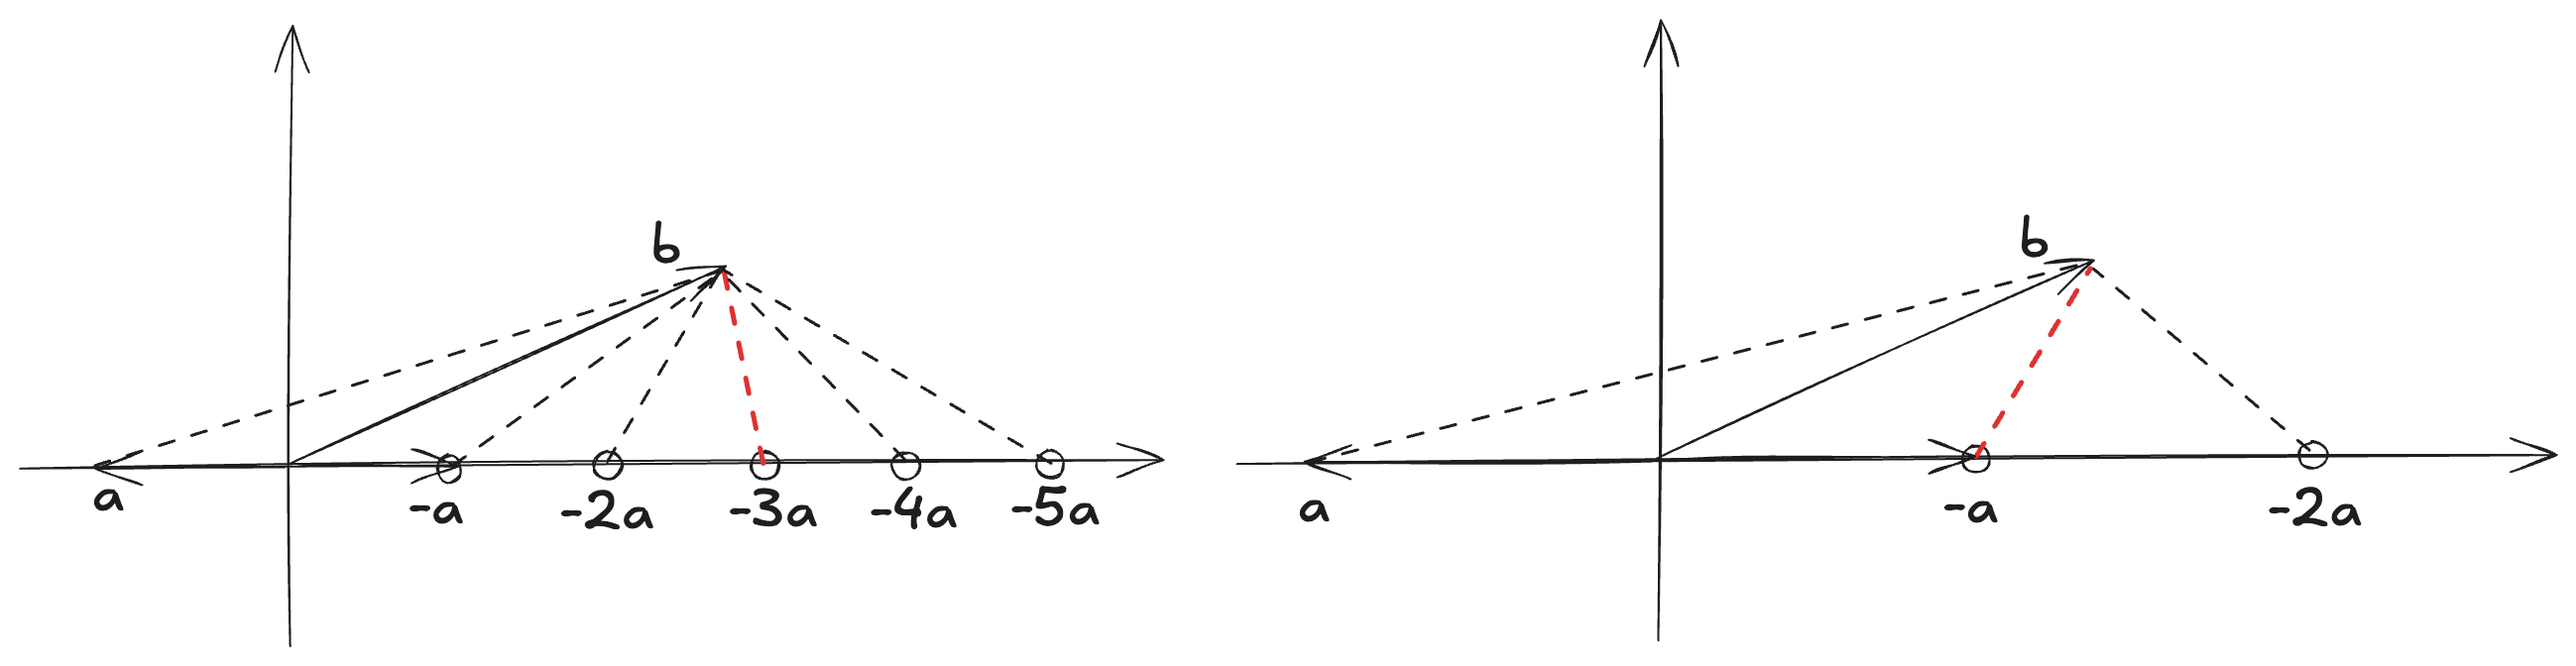
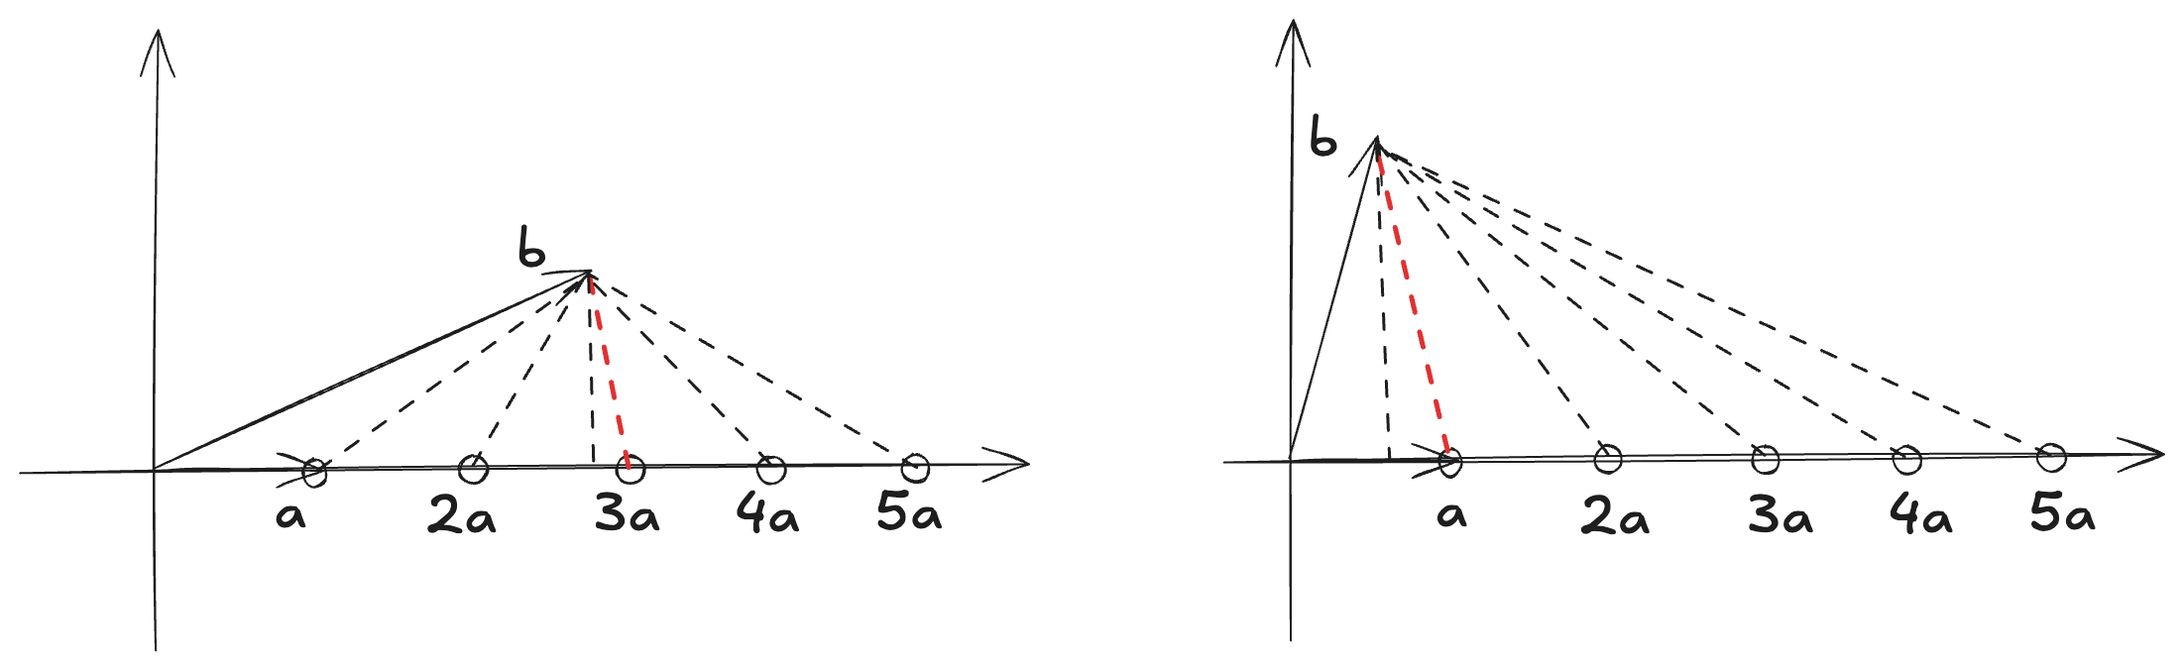
[complexity of lattice problems] detailed explaination of Gauss algorithm

diff --git a/docs/cryptography/complexity-of-lattice-problems/approximation-algorithms.md b/docs/cryptography/complexity-of-lattice-problems/approximation-algorithms.md
@@ -78,13 +78,56 @@ After then we will consider following cases :
     $$
     |\| a \| \le \| b \| \le \| a - b \| \le \| a + b \|
     $$
-    then the basis $[a, b]$ is strictly reduced, return $[a, b]$.
+    then the basis $[a, b]$ is strictly reduced, and they are in the same direction, return $[a, b]$.
 
-2. For the line-4, it is the case of $\| a - b \| \le \| b \|$, there are two subcases to consider:
-   - (2.1) $\| a \| \le \| a - b \|$, then basis $[a, b]$ is a typical well-ordered basis.
-   - (2.2) $\| a - b \| \le \| a \| \le \| b \|$, then there are two subcases to consider : 
-      - (2.2.1) $\| a - b \| \le \| a \| = \| b \|$, this is a very special case, $\|a \| = \| b \|$ and $\| a - b \| \le \| a \|$ ensure that vectors $a - b$ and $a$ are in the same direction, in this case, $\| a \| = \| b \| \le \| 2a - b \|$. Since $\| (a - b) - a \| = \| b \|$, thus the basis $[a - b, a]$ is reduced, return $[a - b, a]$.
-      - (2.2.2) $\| a - b \| \le \| a \| < \| b \|$, we do not know the whether $a - b$ and $a$ are in the same direction or not, but $\| a \| \le \| b \|$ and $\| a - b \| \le \| a \|$ ensures that vectors $b - a$ and $a$ are in the same direction, so $\| b - a \| \le \| (b - a) - a \| \le \| a \|$. Therefore, the basis $[b - a, a]$ is well-ordered basis. 
+2. For the rest of lines, it is the case of $\| a - b \| \lt \| b \|$, there are two subcases to consider:
+
+   - (2.1) for the line-4, $\| a \| \le \| a - b \| \lt \| b \|$, then basis $[a, b]$ is a typical well-ordered basis, and they are in the same direction.
+
+   - (2.2) for line-5 and line-6, $\| a - b \| \le \| a \| \le \| b \|$, then there are two subcases to consider : 
+
+      - (2.2.1) for the line-5, $\| a - b \| \le \| a \| = \| b \|$, this is a very special case, $\|a \| = \| b \|$ and $\| a - b \| \le \| a \|$ ensure that vectors $a - b$ and $a$ are in the same direction, in this case, $\| a \| = \| b \| \le \| 2a - b \|$. Since $\| (a - b) - a \| = \| b \|$, thus the basis $[a - b, a]$ is reduced, and they are in the same direction, return $[a - b, a]$.
+
+      - (2.2.2) from line-6, $\| a - b \| \le \| a \| < \| b \|$, we do not know the whether $a - b$ and $a$ are in the same direction or not, but $\| a \| \le \| b \|$ and $\| a - b \| \le \| a \|$ ensures that vectors $b - a$ and $a$ are in the same direction, so $\| b - a \| \le \| (b - a) - a \| \le \| a \|$. Therefore, the basis $[b - a, a]$ is well-ordered basis. 
+
+The remaining problem is how to find the reduced basis through well-ordered basis in the loop :
+
+1. Since $[a, b]$ is a well-ordered basis, there are other lattice vectors that can be fit between $[\| a \|, \| b \|]$, what we need to do is finding the smallest one. This is achieved by find the integer $\mu$ such that $\| b - \mu a \|$ is minimal, then replace $b$ with $b - \mu a$.
+
+2. Now we can check that if the updated basis $[a, b]$ is reduced, not that before checking we need to make sure that $\| a \| \le \| b \|$, if not, swap $a$ and $b$.
+
+3. repeat the above steps until the basis $[a, b]$ is reduced.
+
+</details>
+<br />
+
+*Lemma 2.3 - Let $a, b$ be two vectors such that $\| b - a \| < \| b \|$. Then, one can efficiently find an integer $\mu$ such that $\| b - \mu a \|$ is minimal. Moreover, $\mu$ satisfies $1 \le \mu \le \lceil 2\frac{\| b \|}{\| a \|} \rceil$.*
+
+![Gauss Algorithm 1](./img/gauss-algorithm-1.png)
+
+<details>
+<summary>Explanation</summary>
+
+Note that, in Gauss algorithm, before entering the loop, we have ensured that the basis $[a, b]$ is well-ordered, i.e., $\| a \| \le \| b \|$ and $\| a \| \le \| a - b \| \le \| b \|$. But, this theorem does only mentioned last-half condition of well-ordered basis, i.e., $\| a - b \| \le \| b \|$. So this is a more general setting than the well-ordered basis condition.
+
+<br />
+
+For better understanding Gauss algorithm, we will specially consider the l2 norm, and explain why we are able to find a reduced basis from well-ordered basis with geometric intuition. 
+
+Condition $\| a \| \le \| a - b \| < \| b \|$  implies :
+- vectors $a, b$ are in the same direction.
+- projection scalar of $b$ onto $a$, i.e., $\frac{\langle a, b \rangle}{\| a \|^2} > 1/2$. 
+- the minimal distance between $b$ and $a$ is $\| b - \frac{\langle a, b \rangle}{\| a \|^2} a \|$.
+
+Two cases involved in finding the optimal integer $\mu$ are:
+1. If $\frac{1}{2} < \frac{\langle a, b \rangle}{\| a \|^2} \le 1$, then $\| b - \mu a \|, u \in \mathbb{N}$ increases as $\mu$ moves away from the minimal value $\frac{\langle a, b \rangle}{\| a \|^2}$. In this case, $\mu = 1$ is the optimal integer choice.
+2. If $\frac{\langle a, b \rangle}{\| a \|^2} > 1$, then $\| b - \mu a \|, u \in \mathbb{N}$ increases in the range $[1, \frac{\langle a, b \rangle}{\| a \|^2})$, and decreases in the range $(\frac{\langle a, b \rangle}{\| a \|^2}, \infty)$. In this case, the optimal integer choice must come from either $\lfloor \frac{\langle a, b \rangle}{\| a \|^2} \rfloor$ or $\lceil \frac{\langle a, b \rangle}{\| a \|^2} \rceil$.
+
+----
+
+Additionally, we will simply explain why $\frac{\langle a, b \rangle}{\| a \|^2} > 1/2$ in the contex of well-ordered basis with one diagraph below.
+
+![Well Ordered Basis](./img/well-ordered-basis.png)
 
 </details>
 <br />
